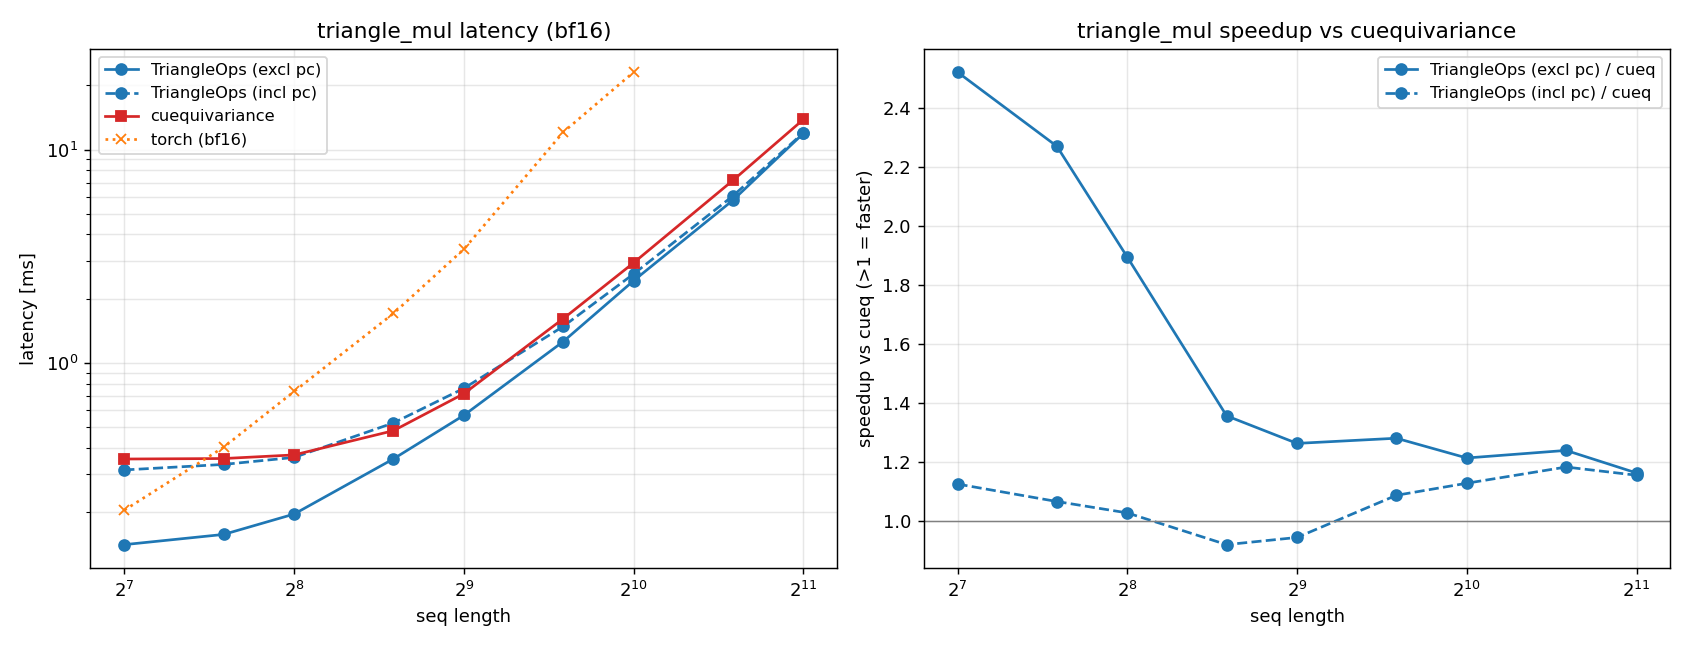
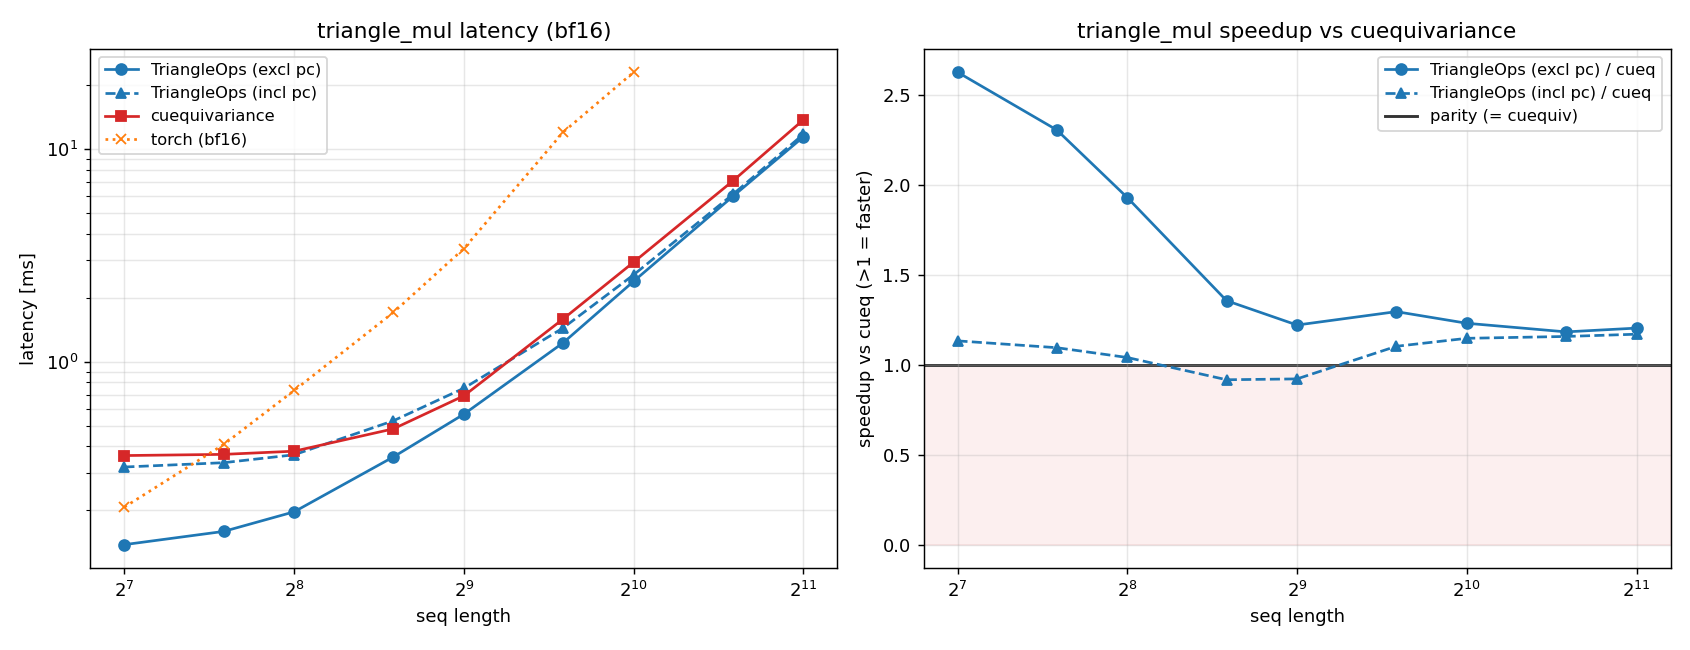
Chore(README): Update graph design

diff --git a/benchmarks/sweep.py b/benchmarks/sweep.py
@@ -25,10 +25,66 @@ ROOT = os.path.dirname(HERE)
 _DEFAULT_SIZES = [128, 192, 256, 384, 512, 768, 1024, 1536, 2048]
 _SERIES = [
     ("triangle_ops", "TriangleOps (excl pc)", "#1f77b4", "-", "o"),
-    ("triangle_ops_incl", "TriangleOps (incl pc)", "#1f77b4", "--", "o"),
+    ("triangle_ops_incl", "TriangleOps (incl pc)", "#1f77b4", "--", "^"),
     ("cueq", "cuequivariance", "#d62728", "-", "s"),
     ("torch", "torch (bf16)", "#ff7f0e", ":", "x"),
 ]
+
+# parity (break-even vs cuequiv) on the speedup plot: a SOLID line plus a shaded
+# "cuequiv is faster" band (speedup < 1) — so it can't be confused with the
+# dashed incl-pc data series.
+_PARITY = dict(color="#333333", linewidth=1.6, linestyle="-", zorder=1.5)
+_LOSS_SHADE = dict(color="#d62728", alpha=0.07, zorder=0)
+
+
+def make_plot(rows, op, dtype, out_dir):
+    """Draw latency (left) + speedup-vs-cuequiv (right) → out_dir/{op}.png.
+    Reused by the live sweep and by offline re-plotting from a saved CSV."""
+    import matplotlib
+
+    matplotlib.use("Agg")
+    import matplotlib.pyplot as plt
+
+    sizes = [r["size"] for r in rows]
+    fig, (ax1, ax2) = plt.subplots(1, 2, figsize=(13, 5))
+
+    # left: latency
+    for k, lbl, c, ls, mk in _SERIES:
+        ax1.plot(sizes, [r[k] for r in rows], label=lbl, color=c, linestyle=ls, marker=mk)
+    ax1.set_xscale("log", base=2)
+    ax1.set_yscale("log")
+    ax1.set_xlabel("seq length")
+    ax1.set_ylabel("latency [ms]")
+    ax1.set_title(f"{op} latency ({dtype})")
+    ax1.grid(True, which="both", alpha=0.3)
+    ax1.legend(fontsize=9)
+
+    # right: speedup vs cuequiv — shaded loss band + solid parity line
+    ax2.axhspan(0.0, 1.0, **_LOSS_SHADE)
+    for k, lbl, c, ls, mk in _SERIES:
+        if not k.startswith("triangle_ops"):
+            continue
+        ax2.plot(
+            sizes,
+            [r["cueq"] / r[k] for r in rows],
+            label=f"{lbl} / cueq",
+            color=c,
+            linestyle=ls,
+            marker=mk,
+        )
+    ax2.axhline(1.0, label="parity (= cuequiv)", **_PARITY)
+    ax2.set_xscale("log", base=2)
+    ax2.set_xlabel("seq length")
+    ax2.set_ylabel("speedup vs cueq (>1 = faster)")
+    ax2.set_title(f"{op} speedup vs cuequivariance")
+    ax2.grid(True, alpha=0.3)
+    ax2.legend(fontsize=9)
+
+    fig.tight_layout()
+    png_path = os.path.join(out_dir, f"{op}.png")
+    fig.savefig(png_path, dpi=130)
+    plt.close(fig)
+    print(f"Wrote {png_path}")
 
 
 def main():
@@ -95,44 +151,7 @@ def main():
     print(f"Wrote {csv_path}")
 
     try:
-        import matplotlib
-
-        matplotlib.use("Agg")
-        import matplotlib.pyplot as plt
-
-        sizes = [r["size"] for r in rows]
-        fig, (ax1, ax2) = plt.subplots(1, 2, figsize=(13, 5))
-        for k, lbl, c, ls, mk in _SERIES:
-            ax1.plot(sizes, [r[k] for r in rows], label=lbl, color=c, linestyle=ls, marker=mk)
-        ax1.set_xscale("log", base=2)
-        ax1.set_yscale("log")
-        ax1.set_xlabel("seq length")
-        ax1.set_ylabel("latency [ms]")
-        ax1.set_title(f"{args.op} latency ({args.dtype})")
-        ax1.grid(True, which="both", alpha=0.3)
-        ax1.legend(fontsize=9)
-        for k, lbl, c, ls, mk in _SERIES:
-            if not k.startswith("triangle_ops"):
-                continue
-            ax2.plot(
-                sizes,
-                [r["cueq"] / r[k] for r in rows],
-                label=f"{lbl} / cueq",
-                color=c,
-                linestyle=ls,
-                marker=mk,
-            )
-        ax2.axhline(1.0, color="gray", linewidth=0.8)
-        ax2.set_xscale("log", base=2)
-        ax2.set_xlabel("seq length")
-        ax2.set_ylabel("speedup vs cueq (>1 = faster)")
-        ax2.set_title(f"{args.op} speedup vs cuequivariance")
-        ax2.grid(True, alpha=0.3)
-        ax2.legend(fontsize=9)
-        fig.tight_layout()
-        png_path = os.path.join(out_dir, f"{args.op}.png")
-        fig.savefig(png_path, dpi=130)
-        print(f"Wrote {png_path}")
+        make_plot(rows, args.op, args.dtype, out_dir)
     except ImportError:
         print("(matplotlib unavailable — skipping plot)")
 

diff --git a/tests/test_triangle_attn.py b/tests/test_triangle_attn.py
@@ -68,3 +68,67 @@ def test_matches_fp32_reference(device, dtype, N, masked):
     )
     max_abs = (out.float() - ref).abs().max().item()
     assert max_abs < TOL[dtype], f"N={N} dtype={dtype} masked={masked} max_abs={max_abs:.3e}"
+
+
+@requires_cuda
[email redacted]("dtype", [torch.bfloat16, torch.float16])
[email redacted]("masked", [False, True])
+def test_general_affine(device, dtype, masked):
+    """Trained regime: non-identity LN(x) gamma/beta and non-zero bias-proj bias."""
+    H, D, Cin = 4, 32, 128
+    N = 256
+    scale = 1.0 / math.sqrt(D)
+    X = rnd(N, N, Cin, dtype=dtype, device=device, seed=1)
+    W_ln = 1.0 + rnd(Cin, dtype=dtype, device=device, sd=0.2, seed=21)
+    B_ln = rnd(Cin, dtype=dtype, device=device, sd=0.1, seed=22)
+    WQ, WK, WV = (rnd(Cin, H * D, dtype=dtype, device=device, sd=Cin**-0.5, seed=s) for s in (3, 4, 5))
+    W_pz = rnd(Cin, H, dtype=dtype, device=device, sd=Cin**-0.5, seed=6)
+    B_pz = rnd(H, dtype=dtype, device=device, sd=0.1, seed=23)
+    W_pg = rnd(Cin, H * D, dtype=dtype, device=device, sd=Cin**-0.5, seed=7)
+    W_po = rnd(Cin, H * D, dtype=dtype, device=device, sd=(H * D) ** -0.5, seed=8)
+
+    mask = None
+    if masked:
+        gmask = torch.Generator(device=device).manual_seed(N)
+        mask = torch.rand(N, N, device=device, generator=gmask) > 0.2
+
+    out = triangle_ops.triangle_attention(
+        X,
+        W_ln,
+        B_ln,
+        WQ,
+        WK,
+        WV,
+        W_pz,
+        B_pz,
+        W_pg,
+        None,
+        W_po,
+        None,
+        H,
+        D,
+        scale=scale,
+        eps=1e-5,
+        mask=mask,
+    )
+    ref = ref_triangle_attn(
+        X,
+        W_ln,
+        B_ln,
+        WQ,
+        WK,
+        WV,
+        W_pz,
+        B_pz,
+        W_pg,
+        None,
+        W_po,
+        None,
+        H,
+        D,
+        scale=scale,
+        eps=1e-5,
+        mask=mask,
+    )
+    max_abs = (out.float() - ref).abs().max().item()
+    assert max_abs < TOL[dtype], f"general-affine masked={masked} dtype={dtype} max_abs={max_abs:.3e}"

diff --git a/tests/test_attn_pair_bias.py b/tests/test_attn_pair_bias.py
@@ -92,3 +92,34 @@ def test_precompute_forward_matches_oneshot(device):
         X, WQ, WK, WV, Z, W_ln, B_ln, W_pz, B_pz, W_pg, B_pg, W_po, B_po, H, D, scale=1.0
     )
     assert torch.equal(out_amortized, out_oneshot)
+
+
+@requires_cuda
[email redacted]("dtype", [torch.bfloat16, torch.float16])
[email redacted]("M", [256, 512])
+def test_general_affine_and_bias(device, dtype, M):
+    """Trained regime: non-identity LN(z) gamma/beta AND non-zero projection
+    biases (B_proj_z folded into the kernel's b_const; B_proj_g/B_proj_o through
+    the PyTorch gate/Wo). Verifies absorption + bias terms together."""
+    H, D, Cz = 4, 32, 128
+    N = H * D
+    X = rnd(M, N, dtype=dtype, device=device, seed=1)
+    Z = rnd(M, M, Cz, dtype=dtype, device=device, seed=2)
+    WQ, WK, WV = (rnd(N, N, dtype=dtype, device=device, sd=N**-0.5, seed=s) for s in (3, 4, 5))
+    W_ln = 1.0 + rnd(Cz, dtype=dtype, device=device, sd=0.2, seed=21)
+    B_ln = rnd(Cz, dtype=dtype, device=device, sd=0.1, seed=22)
+    W_pz = rnd(Cz, H, dtype=dtype, device=device, sd=Cz**-0.5, seed=6)
+    B_pz = rnd(H, dtype=dtype, device=device, sd=0.1, seed=23)
+    W_pg = rnd(N, N, dtype=dtype, device=device, sd=N**-0.5, seed=7)
+    B_pg = rnd(N, dtype=dtype, device=device, sd=0.1, seed=24)
+    W_po = rnd(N, N, dtype=dtype, device=device, sd=N**-0.5, seed=8)
+    B_po = rnd(N, dtype=dtype, device=device, sd=0.1, seed=25)
+
+    out = triangle_ops.attention_pair_bias(
+        X, WQ, WK, WV, Z, W_ln, B_ln, W_pz, B_pz, W_pg, B_pg, W_po, B_po, H, D, scale=1.0, eps=1e-5
+    )
+    ref = ref_attn_pair_bias(
+        X, WQ, WK, WV, Z, W_ln, B_ln, W_pz, B_pz, W_pg, B_pg, W_po, B_po, H, D, scale=1.0, eps=1e-5
+    )
+    max_abs = (out.float() - ref).abs().max().item()
+    assert max_abs < TOL[dtype], f"M={M} dtype={dtype} max_abs={max_abs:.3e}"

diff --git a/tests/test_triangle_mul.py b/tests/test_triangle_mul.py
@@ -59,3 +59,30 @@ def test_precompute_forward_matches_oneshot(device):
     out_amortized = triangle_ops.triangle_mul.forward(x, pre, direction="outgoing", mask=mask)
     out_oneshot = triangle_ops.triangle_multiplicative_update(x, direction="outgoing", mask=mask, **w)
     assert torch.equal(out_amortized, out_oneshot)
+
+
+@requires_cuda
[email redacted]("dtype", [torch.bfloat16, torch.float16])
[email redacted]("L", [128, 256])
[email redacted]("direction", ["outgoing", "incoming"])
+def test_general_affine(device, dtype, L, direction):
+    """Trained-LN regime: non-identity LayerNorm γ (≠1) and β (≠0) for BOTH
+    norm_in and norm_out — exercises the absorption path with real-ish values
+    (γ ~ 1+N(0,0.2), β ~ N(0,0.1)) rather than the identity affine."""
+    D = 128
+    x = rnd(1, L, L, D, dtype=dtype, device=device, seed=1)
+    mask = torch.ones(1, L, L, dtype=torch.bool, device=device)
+    w = {
+        "norm_in_weight": 1.0 + rnd(D, dtype=dtype, device=device, sd=0.2, seed=21),
+        "norm_in_bias": rnd(D, dtype=dtype, device=device, sd=0.1, seed=22),
+        "p_in_weight": rnd(2 * D, D, dtype=dtype, device=device, sd=D**-0.5, seed=11),
+        "g_in_weight": rnd(2 * D, D, dtype=dtype, device=device, sd=D**-0.5, seed=12),
+        "norm_out_weight": 1.0 + rnd(D, dtype=dtype, device=device, sd=0.2, seed=23),
+        "norm_out_bias": rnd(D, dtype=dtype, device=device, sd=0.1, seed=24),
+        "p_out_weight": rnd(D, D, dtype=dtype, device=device, sd=D**-0.5, seed=13),
+        "g_out_weight": rnd(D, D, dtype=dtype, device=device, sd=D**-0.5, seed=14),
+    }
+    out = triangle_ops.triangle_multiplicative_update(x, direction=direction, mask=mask, eps=1e-5, **w)
+    ref = ref_triangle_mul(x, mask, direction, 1e-5, **w)
+    max_abs = (out.float() - ref).abs().max().item()
+    assert max_abs < TOL[dtype], f"general-affine L={L} {direction} dtype={dtype} max_abs={max_abs:.3e}"